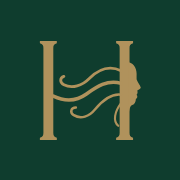
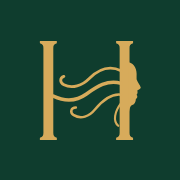
Gold is now #D7AB5B (deep gold #826531 for small text)
Claude-Session: https://claude.ai/code/session_01L2FNrX7jLtXvLgC1MvqWQJ

Changed region(s): [[0.2222, 0.2222, 0.7778, 0.7778], [0.3333, 0.4167, 0.3611, 0.4722]]

diff --git a/src/lib/email.ts b/src/lib/email.ts
@@ -39,8 +39,8 @@ function layout(title: string, body: string, preheader = '') {
 <table role="presentation" width="600" cellpadding="0" cellspacing="0" style="max-width:600px;width:100%;background:#FFFDF8;border:1px solid #E3D9C4">
 <tr><td style="background:#0F3D2E;padding:28px;text-align:center">
 <div style="font-size:22px;letter-spacing:8px;color:#EFE6D2">HAIRVER GREEN</div>
-<div style="width:40px;height:1px;background:#B0925C;margin:12px auto"></div>
-<div style="font-family:Arial,sans-serif;font-size:10px;letter-spacing:4px;color:#B0925C">LUXURY HAIR HOUSE</div></td></tr>
+<div style="width:40px;height:1px;background:#D7AB5B;margin:12px auto"></div>
+<div style="font-family:Arial,sans-serif;font-size:10px;letter-spacing:4px;color:#D7AB5B">LUXURY HAIR HOUSE</div></td></tr>
 <tr><td style="padding:32px 28px;font-size:16px;line-height:1.6">${body}</td></tr>
 <tr><td style="padding:20px 28px;border-top:1px solid #E3D9C4;font-family:Arial,sans-serif;font-size:12px;color:#6B665C;text-align:center">
 Hairver Green · <a href="${env.siteUrl}" style="color:#0F3D2E">${env.siteUrl.replace(/^https?:\/\//, '')}</a></td></tr>

diff --git a/src/lib/data/content.ts b/src/lib/data/content.ts
@@ -9,7 +9,7 @@ const REVALIDATE = 300;
 
 export const DEFAULT_THEME: ThemeSettings = {
   colors: {
-    primary: '#0F3D2E', primary_contrast: '#F6F2EA', accent: '#B0925C', accent_strong: '#8C7142', background: '#F6F2EA',
+    primary: '#0F3D2E', primary_contrast: '#F6F2EA', accent: '#D7AB5B', accent_strong: '#826531', background: '#F6F2EA',
     surface: '#FFFDF8', panel: '#EFE6D2', text: '#1B1A17', muted: '#6B665C', border: '#E3D9C4', sale: '#8A2E2E',
   },
   fonts: { display: 'Cormorant Garamond', body: 'Jost' }, radius: 'none', button_style: 'solid', product_card: 'editorial',

diff --git a/src/app/globals.css b/src/app/globals.css
@@ -7,8 +7,8 @@
 :root {
   --hg-primary: #0F3D2E;
   --hg-primary-contrast: #F6F2EA;
-  --hg-accent: #B0925C;
-  --hg-accent-strong: #8C7142;
+  --hg-accent: #D7AB5B;
+  --hg-accent-strong: #826531;
   --hg-background: #F6F2EA;
   --hg-surface: #FFFDF8;
   --hg-panel: #EFE6D2;
